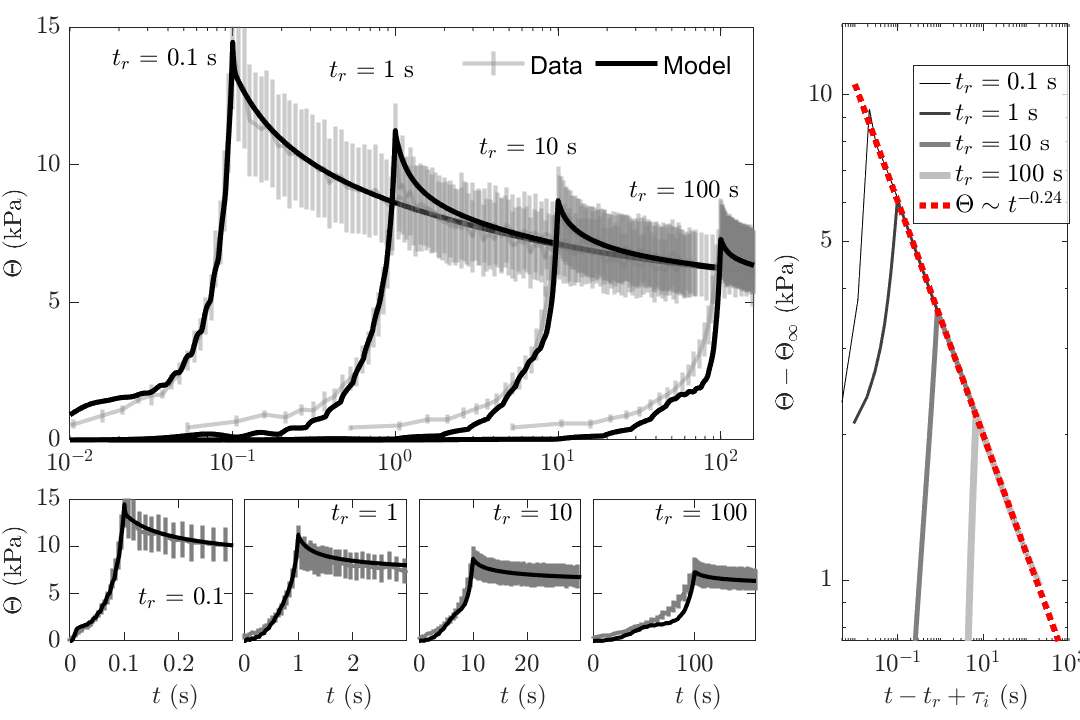
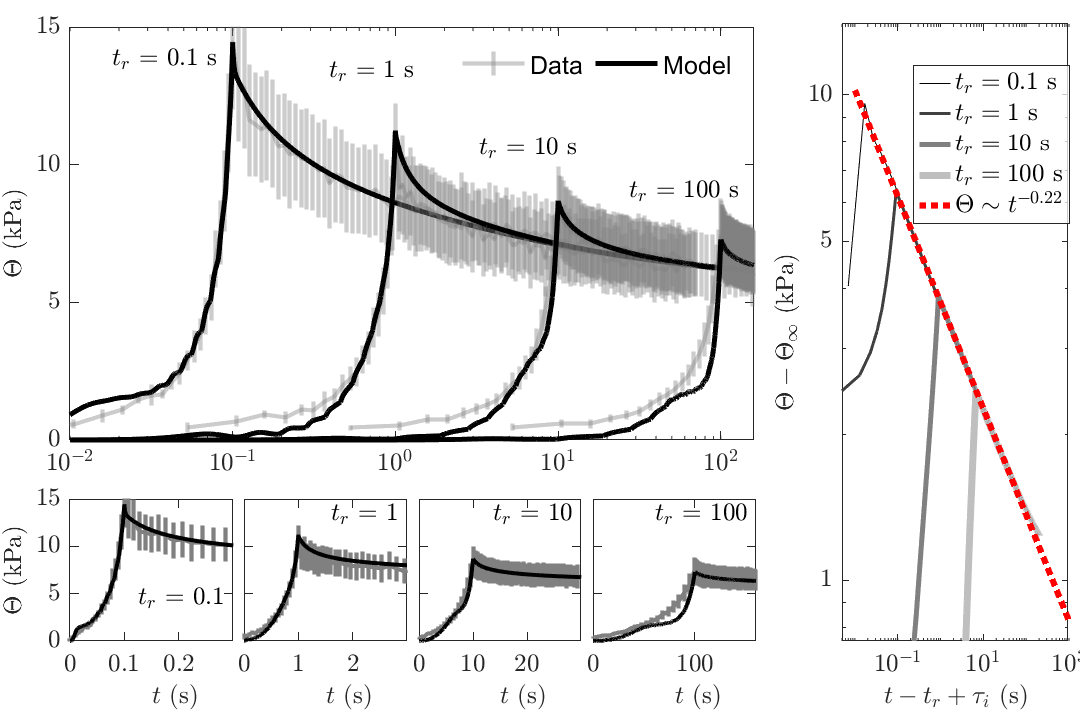
Minor change to figures

diff --git a/DataProcessing/evalPowerFit.m b/DataProcessing/evalPowerFit.m
@@ -82,7 +82,7 @@ if plotResults == true
     % axes left adjacent
     if w2 > 0
         a_la = axes(fug, 'Position', [x0+w1+gap y0 w2 h], 'Xlim', xrng_add,'XTick',floor((xrng_add(1):10:xrng_add(end))/5)*5, 'YTick', [],... 
-            'YLim',yrng1, 'FontSize',fs, 'YScale','linear', 'TickLabelInterpreter','latex'); 
+            'YLim',yrng1, 'FontSize',fs, 'YScale','linear', 'TickLabelInterpreter','latex', 'XTickLabelRotation', 45); 
         hold on;box on;
     else
         % invalid, lets make it outside valid range
@@ -99,7 +99,7 @@ if plotResults == true
     
     if w2 > 0
         a_ca = axes('Position', [0.5-w/2 + w1 + gap + centerShift y0 w2 h], 'Xlim', xrng_add,'XTick',floor((xrng_add(1):10:xrng_add(end))/5)*5, 'YTick', [],... 
-        'YLim',yrng_ll, 'FontSize',fs, 'YScale','log', 'TickLabelInterpreter','latex');
+        'YLim',yrng_ll, 'FontSize',fs, 'YScale','log', 'TickLabelInterpreter','latex', 'XTickLabelRotation', 45);
         hold on; box on;
     else
         % invalid, lets make it outside valid range
@@ -357,7 +357,7 @@ for i_rds = [4 3 2 1]
             leg_gr = [l_f l_r(valids)];
             fit_txt = sprintf('$%0.2f(t - t_r + \\tau_i)^{-%0.2f}$',a,b);
             disp(fit_txt)
-            fit_txt = sprintf("$\\Theta \\sim t^{-%0.2g}$", b);
+            fit_txt = sprintf("$\\Theta \\sim t^{-%0.2f}$", b);
             leg_txt = [fit_txt legends(valids)];
             reorder = [5 4 3 2 1];
         % else

diff --git a/Model/ExportFigures.m b/Model/ExportFigures.m
@@ -36,7 +36,7 @@ aspect = 1.5;
 f.Position = [300 200 7.2*96 7.2*96/aspect];
 x = [3.7242    0.2039    4.8357];
 % loads data cleaned and averaged in AverageRamps
-load("pca11data.mat");
+load("../data/pca11data.mat");
 [c rampShift] = evalPowerFit(x, Farr, Tarr, true, [], false);
 leg = gcf().Children(1);
 leg.Position = [0.4519    0.8571    0.5096    0.1359];
@@ -83,7 +83,7 @@ end
 clearvars -except saveFigures
 f = figure(6); clf;
 pCa = 4.51;
-rampSet = [4];
+% rampSet = [4];
 drawPlots = true;
 plotDetailedPlots = true;
 plotInSeparateFigure = true;

diff --git a/DataProcessing/AverageRamps.m b/DataProcessing/AverageRamps.m
@@ -89,7 +89,7 @@ xlim([-0.05, 0.5]);ylim(yl2);
 leg = legend('ML ($L/L_0$)', '$\Theta$ (kPa)', 'Interpreter','latex', 'FontSize',12, NumColumns=1, Location='southeast');
 leg.Position = leg.Position + [0 0.07 0 0];
 xlabel('$t$ (s)', 'Interpreter','latex');
-ylabel('Stress (kPa)', 'Interpreter','latex')
+ylabel('\textbf{Stress (kPa)}', 'Interpreter','latex')
 fontsize(12, 'points');
 gc = gca; 
 gc.YAxis(2).Color = [0 0 0];
